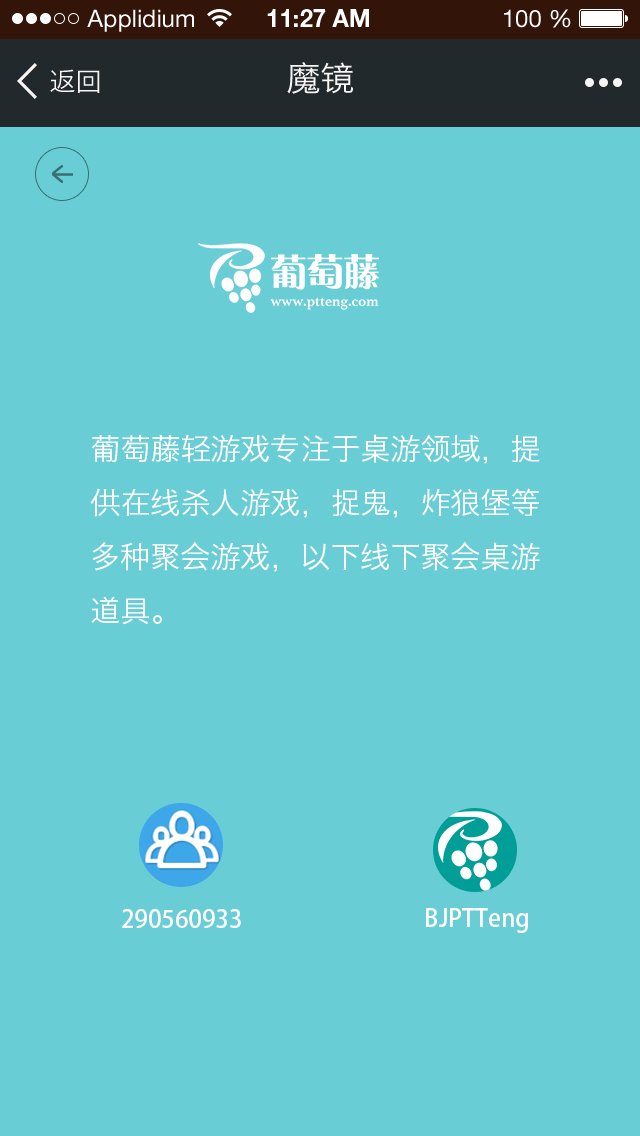
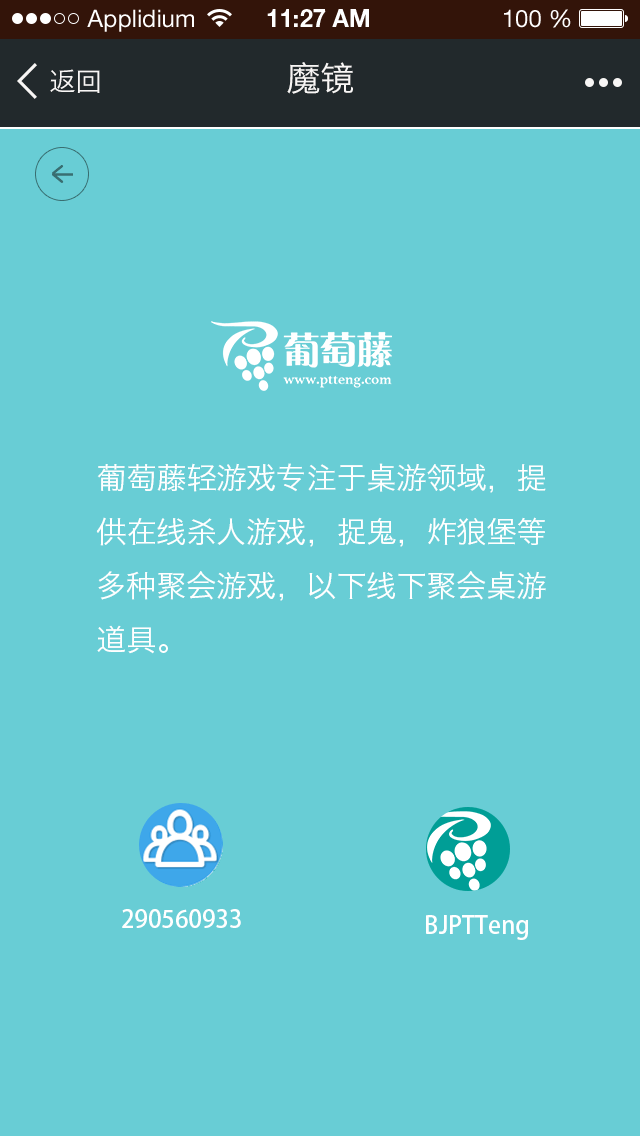
new edition of task3

diff --git a/task3/task3Re.html b/task3/task3Re.html
@@ -1,0 +1,37 @@
+<!DOCTYPE html>
+<html lang="en">
+<head>
+    <meta charset="UTF-8">
+    <title>Task3</title>
+    <link type="text/css" rel="stylesheet" href="task3Re.css">
+    <meta name="viewport" content="width=device-width,	minimum-scale=1.0,maximum-scale=1.0,user-scalable=no">
+</head>
+<body>
+<div class="back">
+    <img src="image/back.png">
+</div>
+<div class="main">
+    <p>
+    <img src="image/logo.png">
+    </p>
+    <p>
+        葡萄藤轻游戏专注于桌游领域,提供在线杀人游戏,捉鬼,炸狼堡等多种聚会游戏,以下线下聚会桌游道具
+    </p>
+</div>
+<div class="login">
+    <div class="left">
+        <p class="down">
+        <img src="image/number.png"><br><br>
+            222222
+        </p>
+    </div>
+    <div class="right">
+        <p class="down">
+            <img src="image/name.png"><br><br>
+            BJPTTENG
+        </p>
+    </div>
+</div>
+
+</body>
+</html>

diff --git a/task3/task3Re.css b/task3/task3Re.css
@@ -1,0 +1,39 @@
+body{
+    background-color: #68cdd5;
+    word-break: break-all;
+    color: white;
+}
+.back{
+    width:100%;
+    float: left;
+}
+.main{
+    width:100%;
+    padding-bottom: 5em;
+    float: left;
+}
+p{
+    width:60%;
+    text-align: center;
+    margin: 5em auto 0 auto;
+}
+.login{
+    width:100%;
+    margin: 0 auto 0 auto;
+}
+.left{
+    width: 50%;
+    float: left;
+    padding: 0;
+    margin: 0;
+}
+p.down{
+    margin:0 auto;
+}
+.right{
+    width: 50%;
+    float: right;
+    padding: 0;
+    margin: 0;
+
+}
